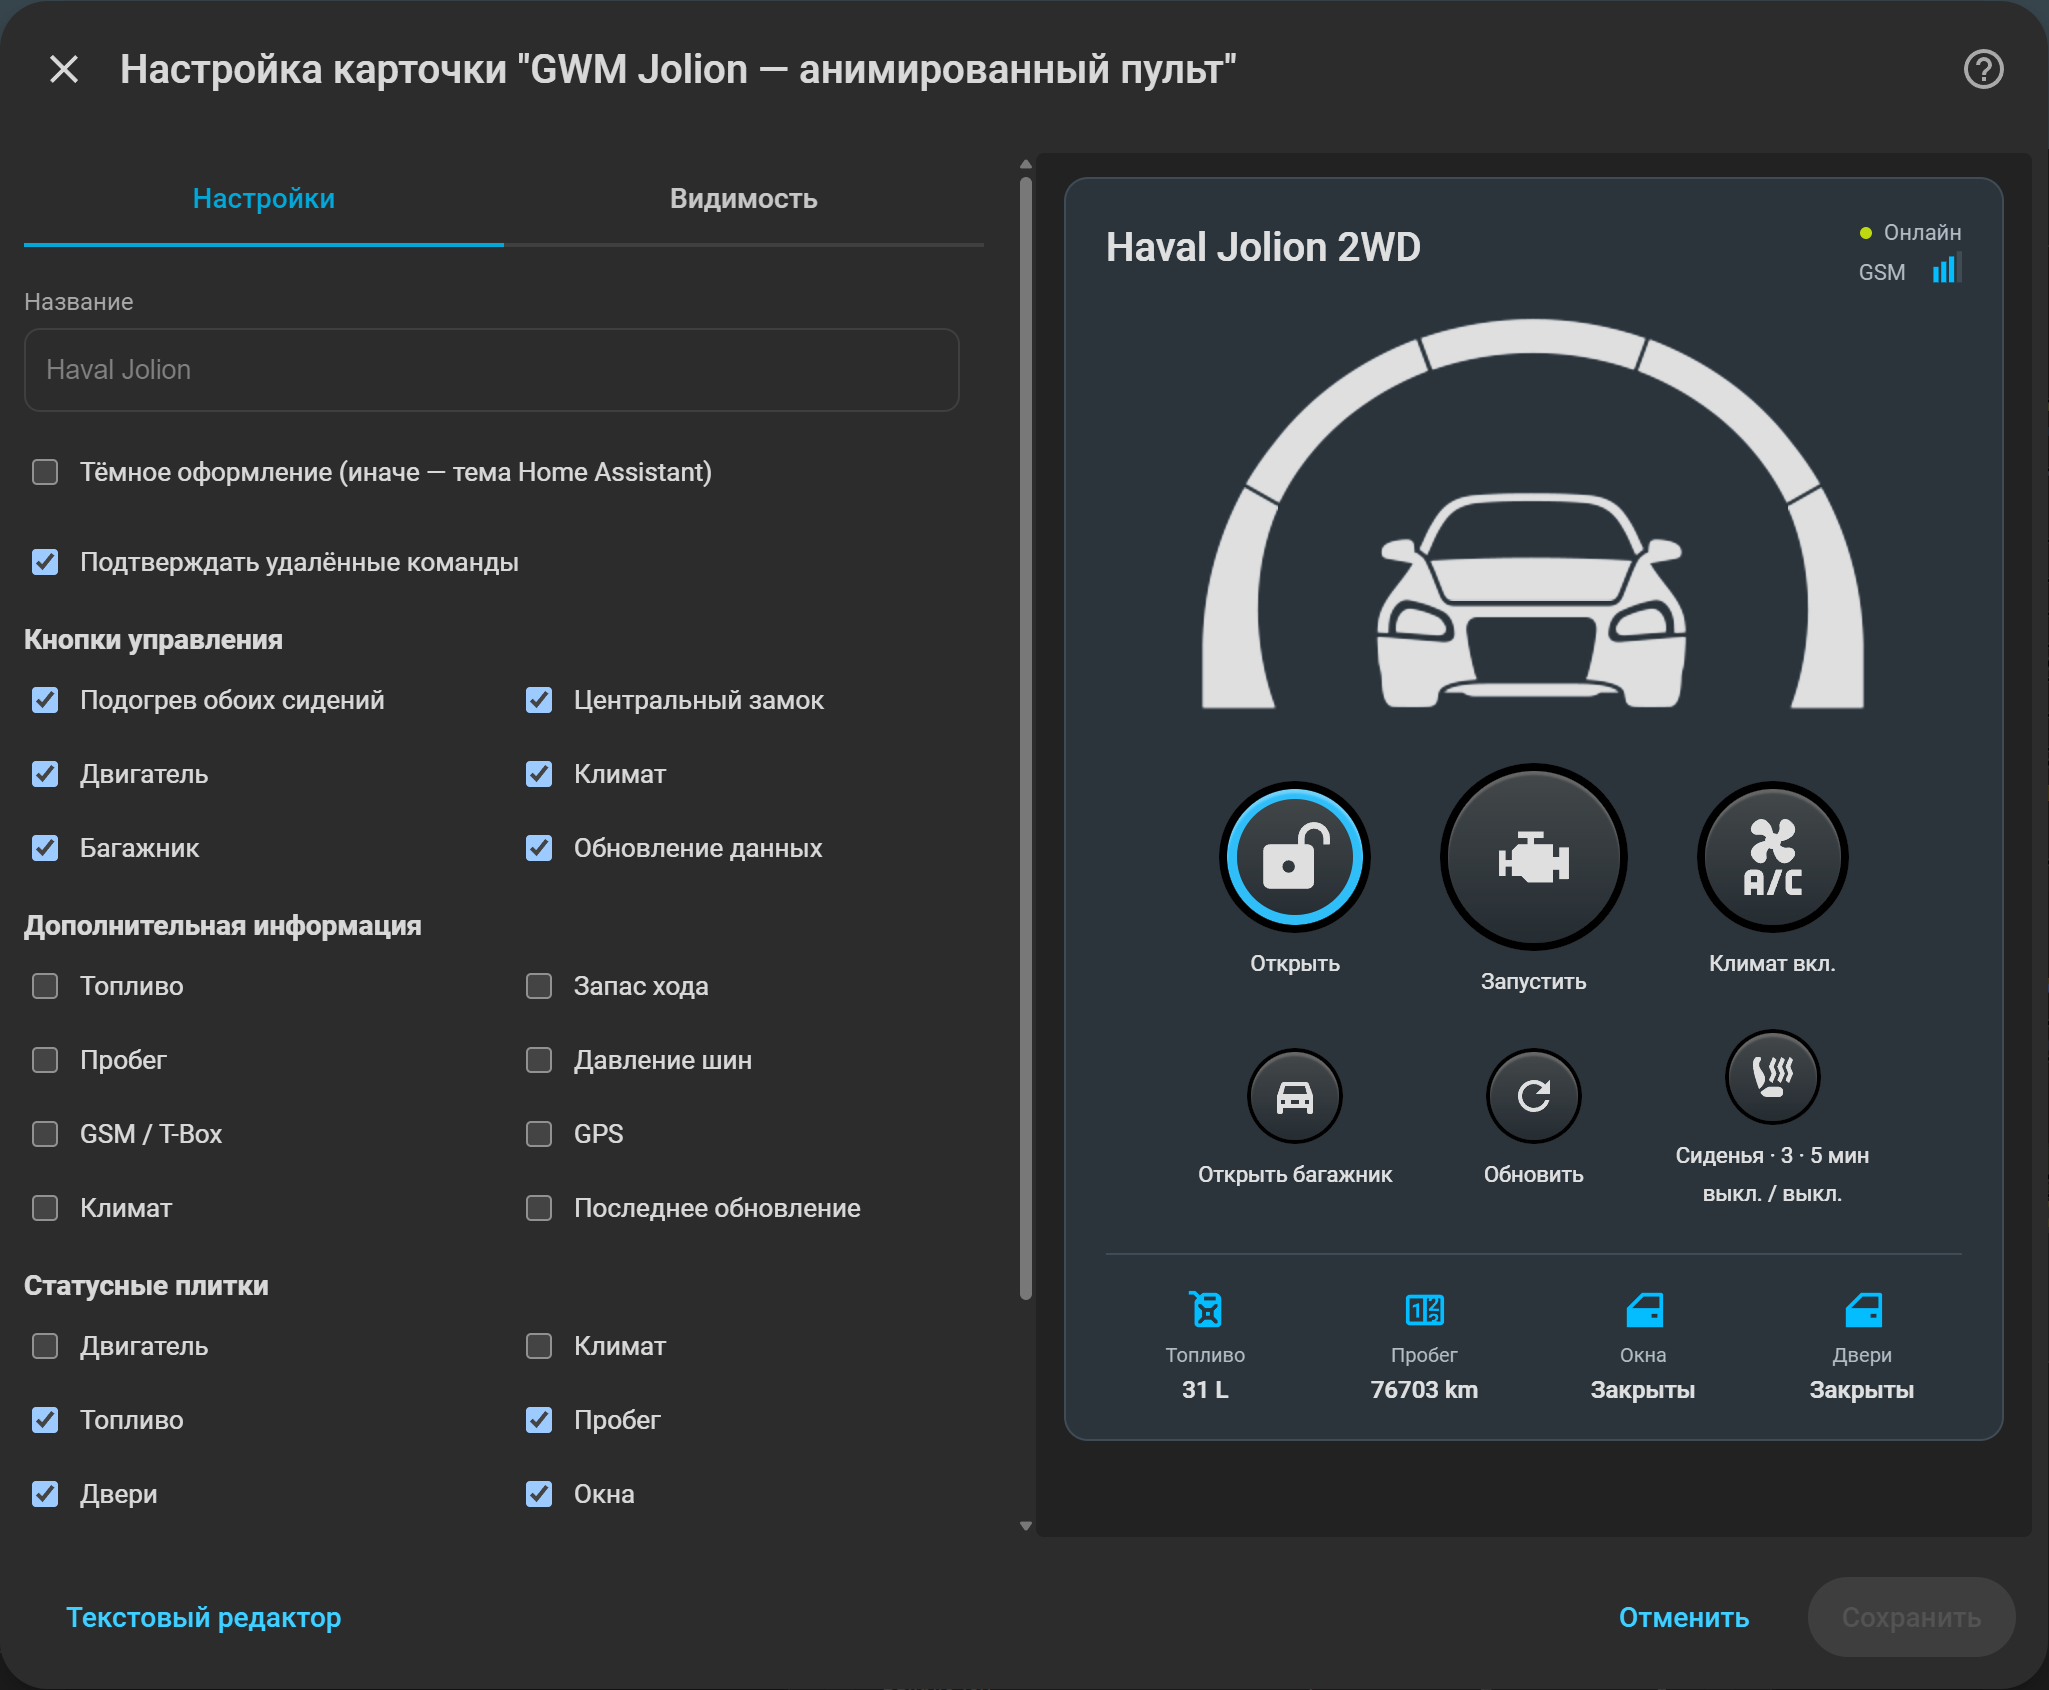
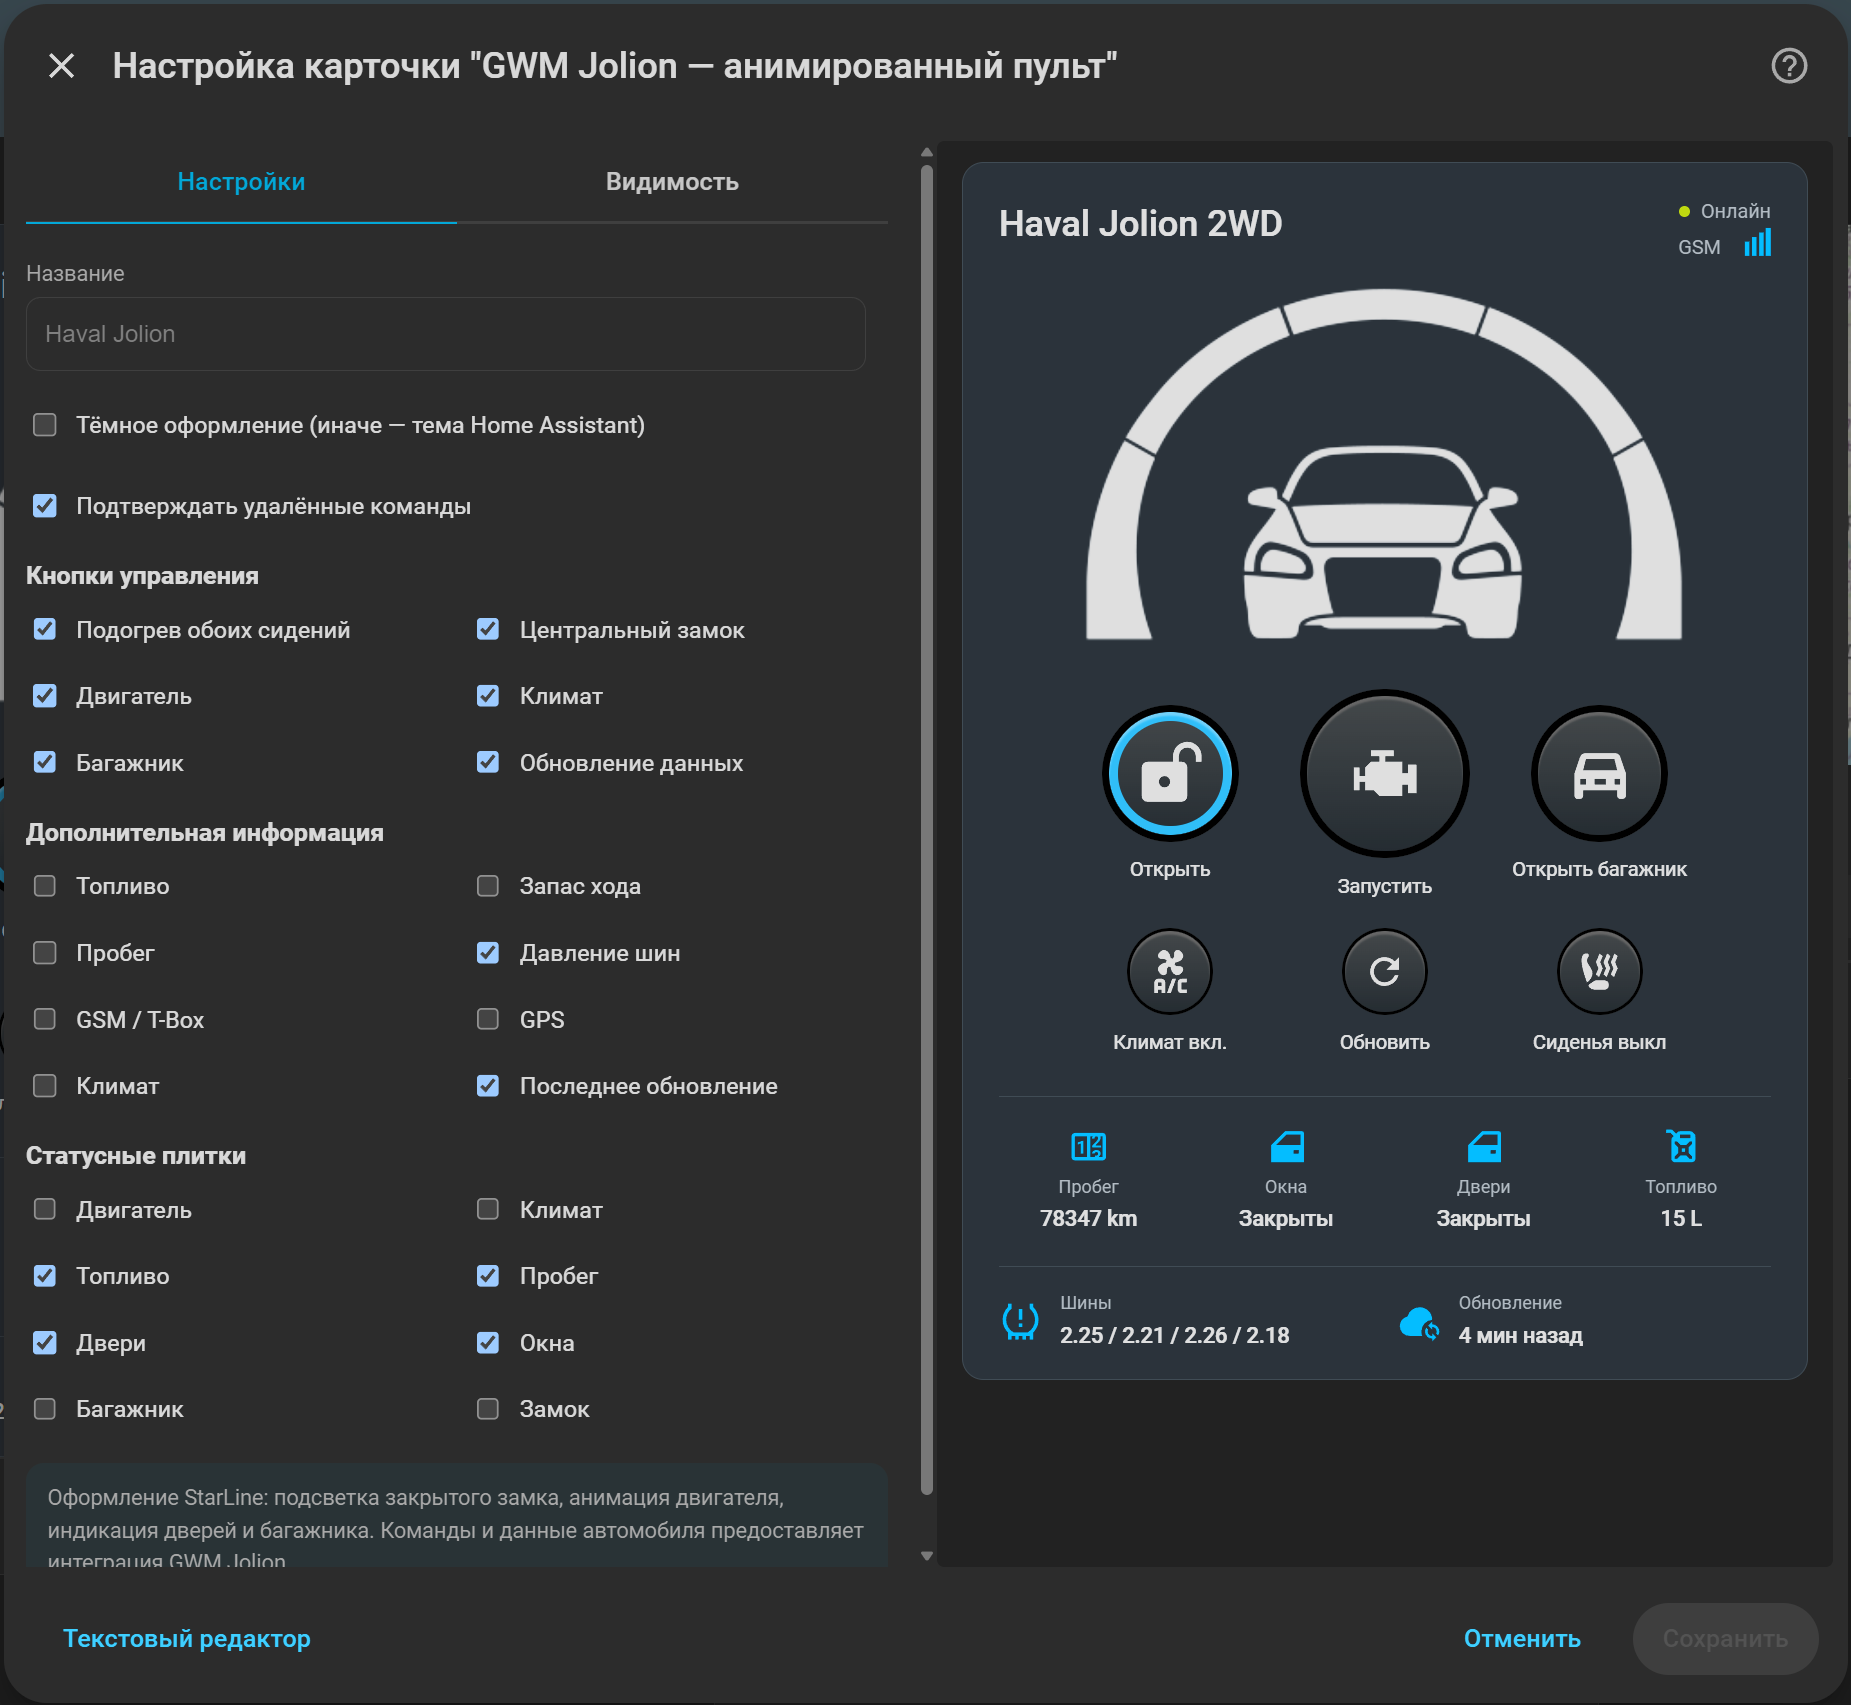
docs: update screenshots of all three cards

diff --git a/README.md b/README.md
@@ -26,6 +26,8 @@
 
 ### Поездки — карта и пробег
 
+<p align="center"><img src="docs/gwm-jolion-trips-card-settings.png" alt="Настройки и внешний вид карточки поездок gwm-jolion-trips-card"></p>
+
 В редакторе доступно **«Оформление карты»**: светлая Positron (по умолчанию), тёмная Dark, стандартная Liberty от OpenFreeMap и прежняя OpenStreetMap. API-ключ и регистрация не нужны. Маршрут и выбранный период сохраняются при смене оформления.
 
 Добавьте карточку **«GWM Jolion — Поездки»** и выберите сущность местоположения своего автомобиля в её графическом редакторе. Карта расположена сверху, под ней — пробег, кнопки «Сегодня», «Вчера», «Неделя» и пиктограмма календаря для выбора периода. День считается по часовому поясу Home Assistant, от полуночи до следующей полуночи.
